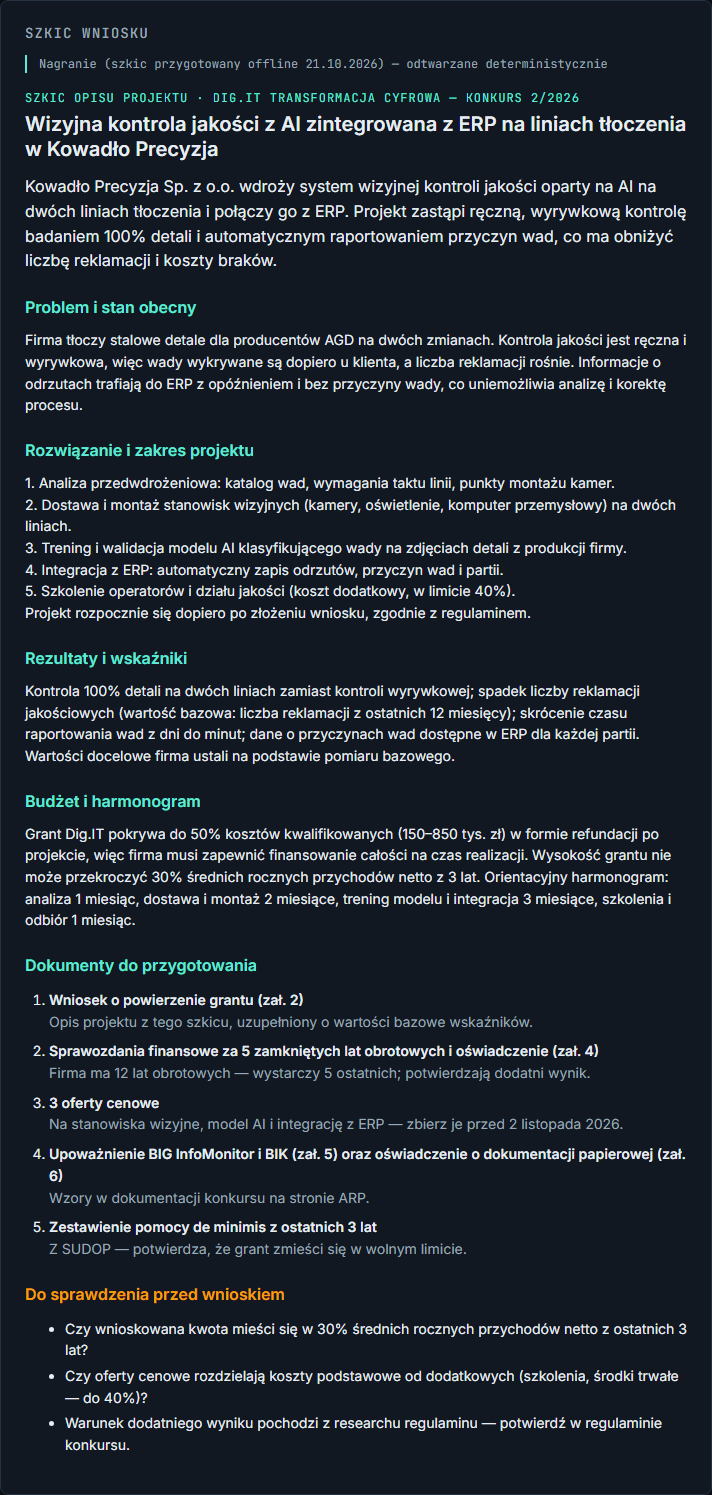
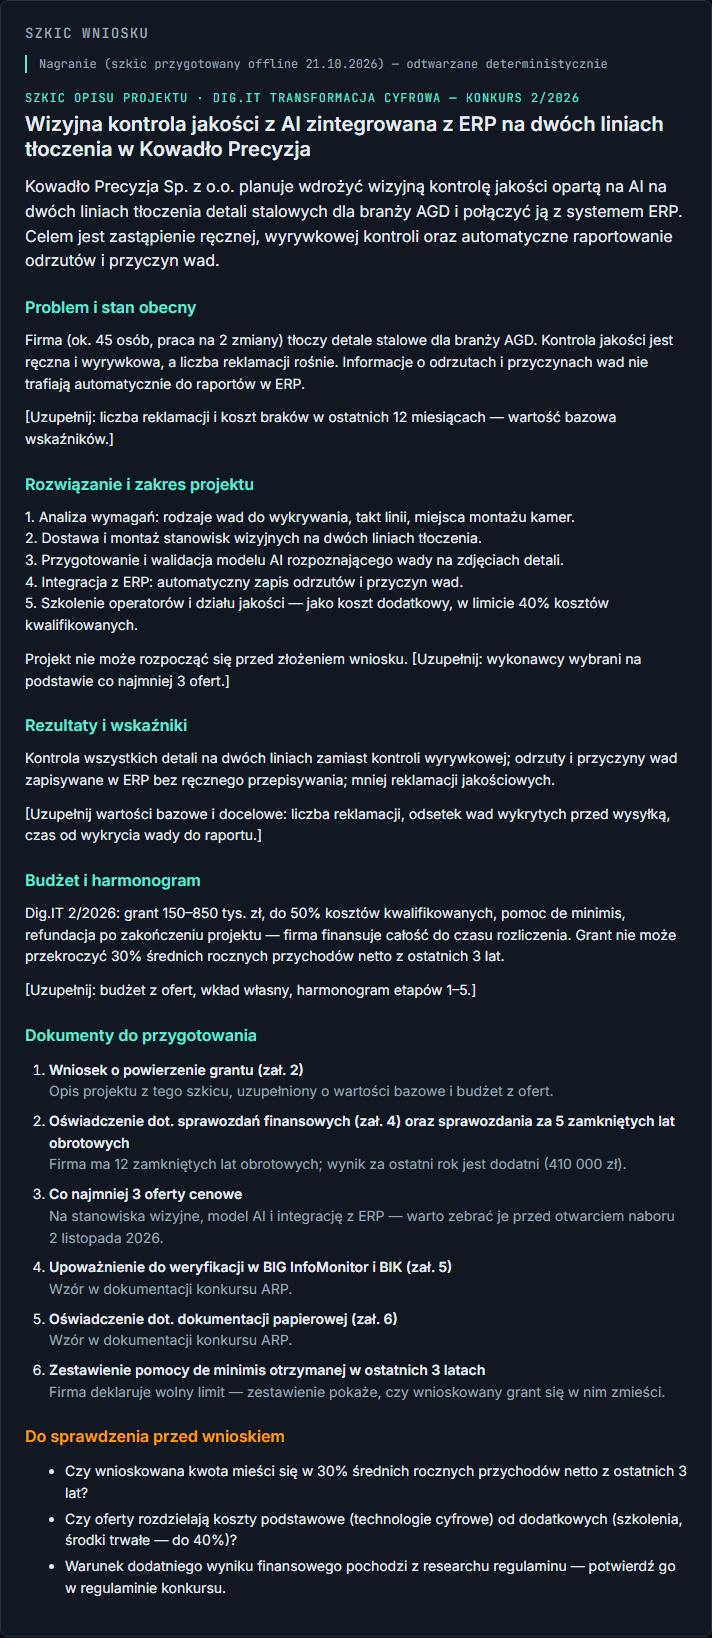
docs: update readme, ledger and screenshots after review

Changed region(s): [[0.0309, 0.0, 0.9579, 0.9846]]

diff --git a/README.md b/README.md
@@ -95,10 +95,11 @@ and commit. Each recording stores a hash of its input **and of the rule result**
 suite fails if a rule, call or fixture change makes a recording stale, so an outdated draft
 can never be replayed silently.
 
-> The recordings committed today are marked `source: "prepared"`: they were written offline
-> (no API key was available when the demo was built) in the exact shape the live mode
-> returns, and the UI labels them as such. Run `npm run record` with a key to replace them
-> with captured runs.
+> The recordings committed today are marked `source: "prepared"` with `model: null`: they
+> were written offline (no API key was available when the demo was built) in the exact shape
+> the live mode returns and under the same rules as the live prompt — only facts from the
+> input and the call data, unknowns left as `[…]` placeholders. The UI labels them as
+> prepared. Run `npm run record` with a key to replace them with captured runs.
 
 ### Embedding (kokot.it case study)
 
@@ -171,7 +172,8 @@ not ineligible; no draft is generated when nothing matches.
 
 **Tests.** Rule boundaries (4 vs 5 years; result −1 / 0 / 1 / unknown; every sector and size;
 de minimis answers), ranking, hashing (FNV reference vectors), recording freshness and
-deterministic replay, prompt contents, the HTTP API (validation, size limit, hidden error
+deterministic replay, prompt contents, WCAG AA contrast of every token pair (computed
+from `tokens.css`, so a brand swap that breaks contrast fails the suite), the HTTP API (validation, size limit, hidden error
 details, no model call without a match) and the Claude wrapper against a fake client.
 
 ## Limitations

diff --git a/docs/superpowers/decisions/T-13.md b/docs/superpowers/decisions/T-13.md
@@ -11,3 +11,7 @@
 - 2026-10-21 · standards · the first five cases in `server/llm.test.ts` were written after the implementation (pins); only the missing-credentials case was red first · self
 - 2026-10-21 · standards · `@typescript-eslint/no-non-null-assertion` is off in `*.test.ts` only — fixtures are known-present and assertions on them fail loudly anyway · self
 - 2026-10-21 · standards · flow-tdd ran by hand: the `personal-brand` profile did not resolve when implementation started (it was created in parallel) · self
+- 2026-10-21 · standards · `playwright` is a devDependency used only by `scripts/screenshots.ts` (README screenshots); browsers are not downloaded by `npm ci`, so CI is unaffected · self
+- 2026-10-21 · spec · `src/data/calls.ts` goes beyond the research note with facts read on the official pages on 2026-10-21: Dig.IT's 30%-of-average-revenue cap, ≤ 40% additional costs, "no start before the application" and the annex list (digit.arp.pl); STEP's R&D providers — universities, institutes, PAN institutes, accredited labs (wroclaw.pl) · self
+- 2026-10-21 · spec · prepared recordings follow the live prompt's contract (only facts from the input and call data; unknowns as `[…]` placeholders) and carry `model: null`, after the spec-axis review found invented facts and a model id on drafts no model produced · self
+- 2026-10-21 · spec · the kokot.it case-study subpage that embeds this demo is out of this repo's scope — this repo ships `?embed=1` and the iframe snippet; the page itself belongs to the site work · self
